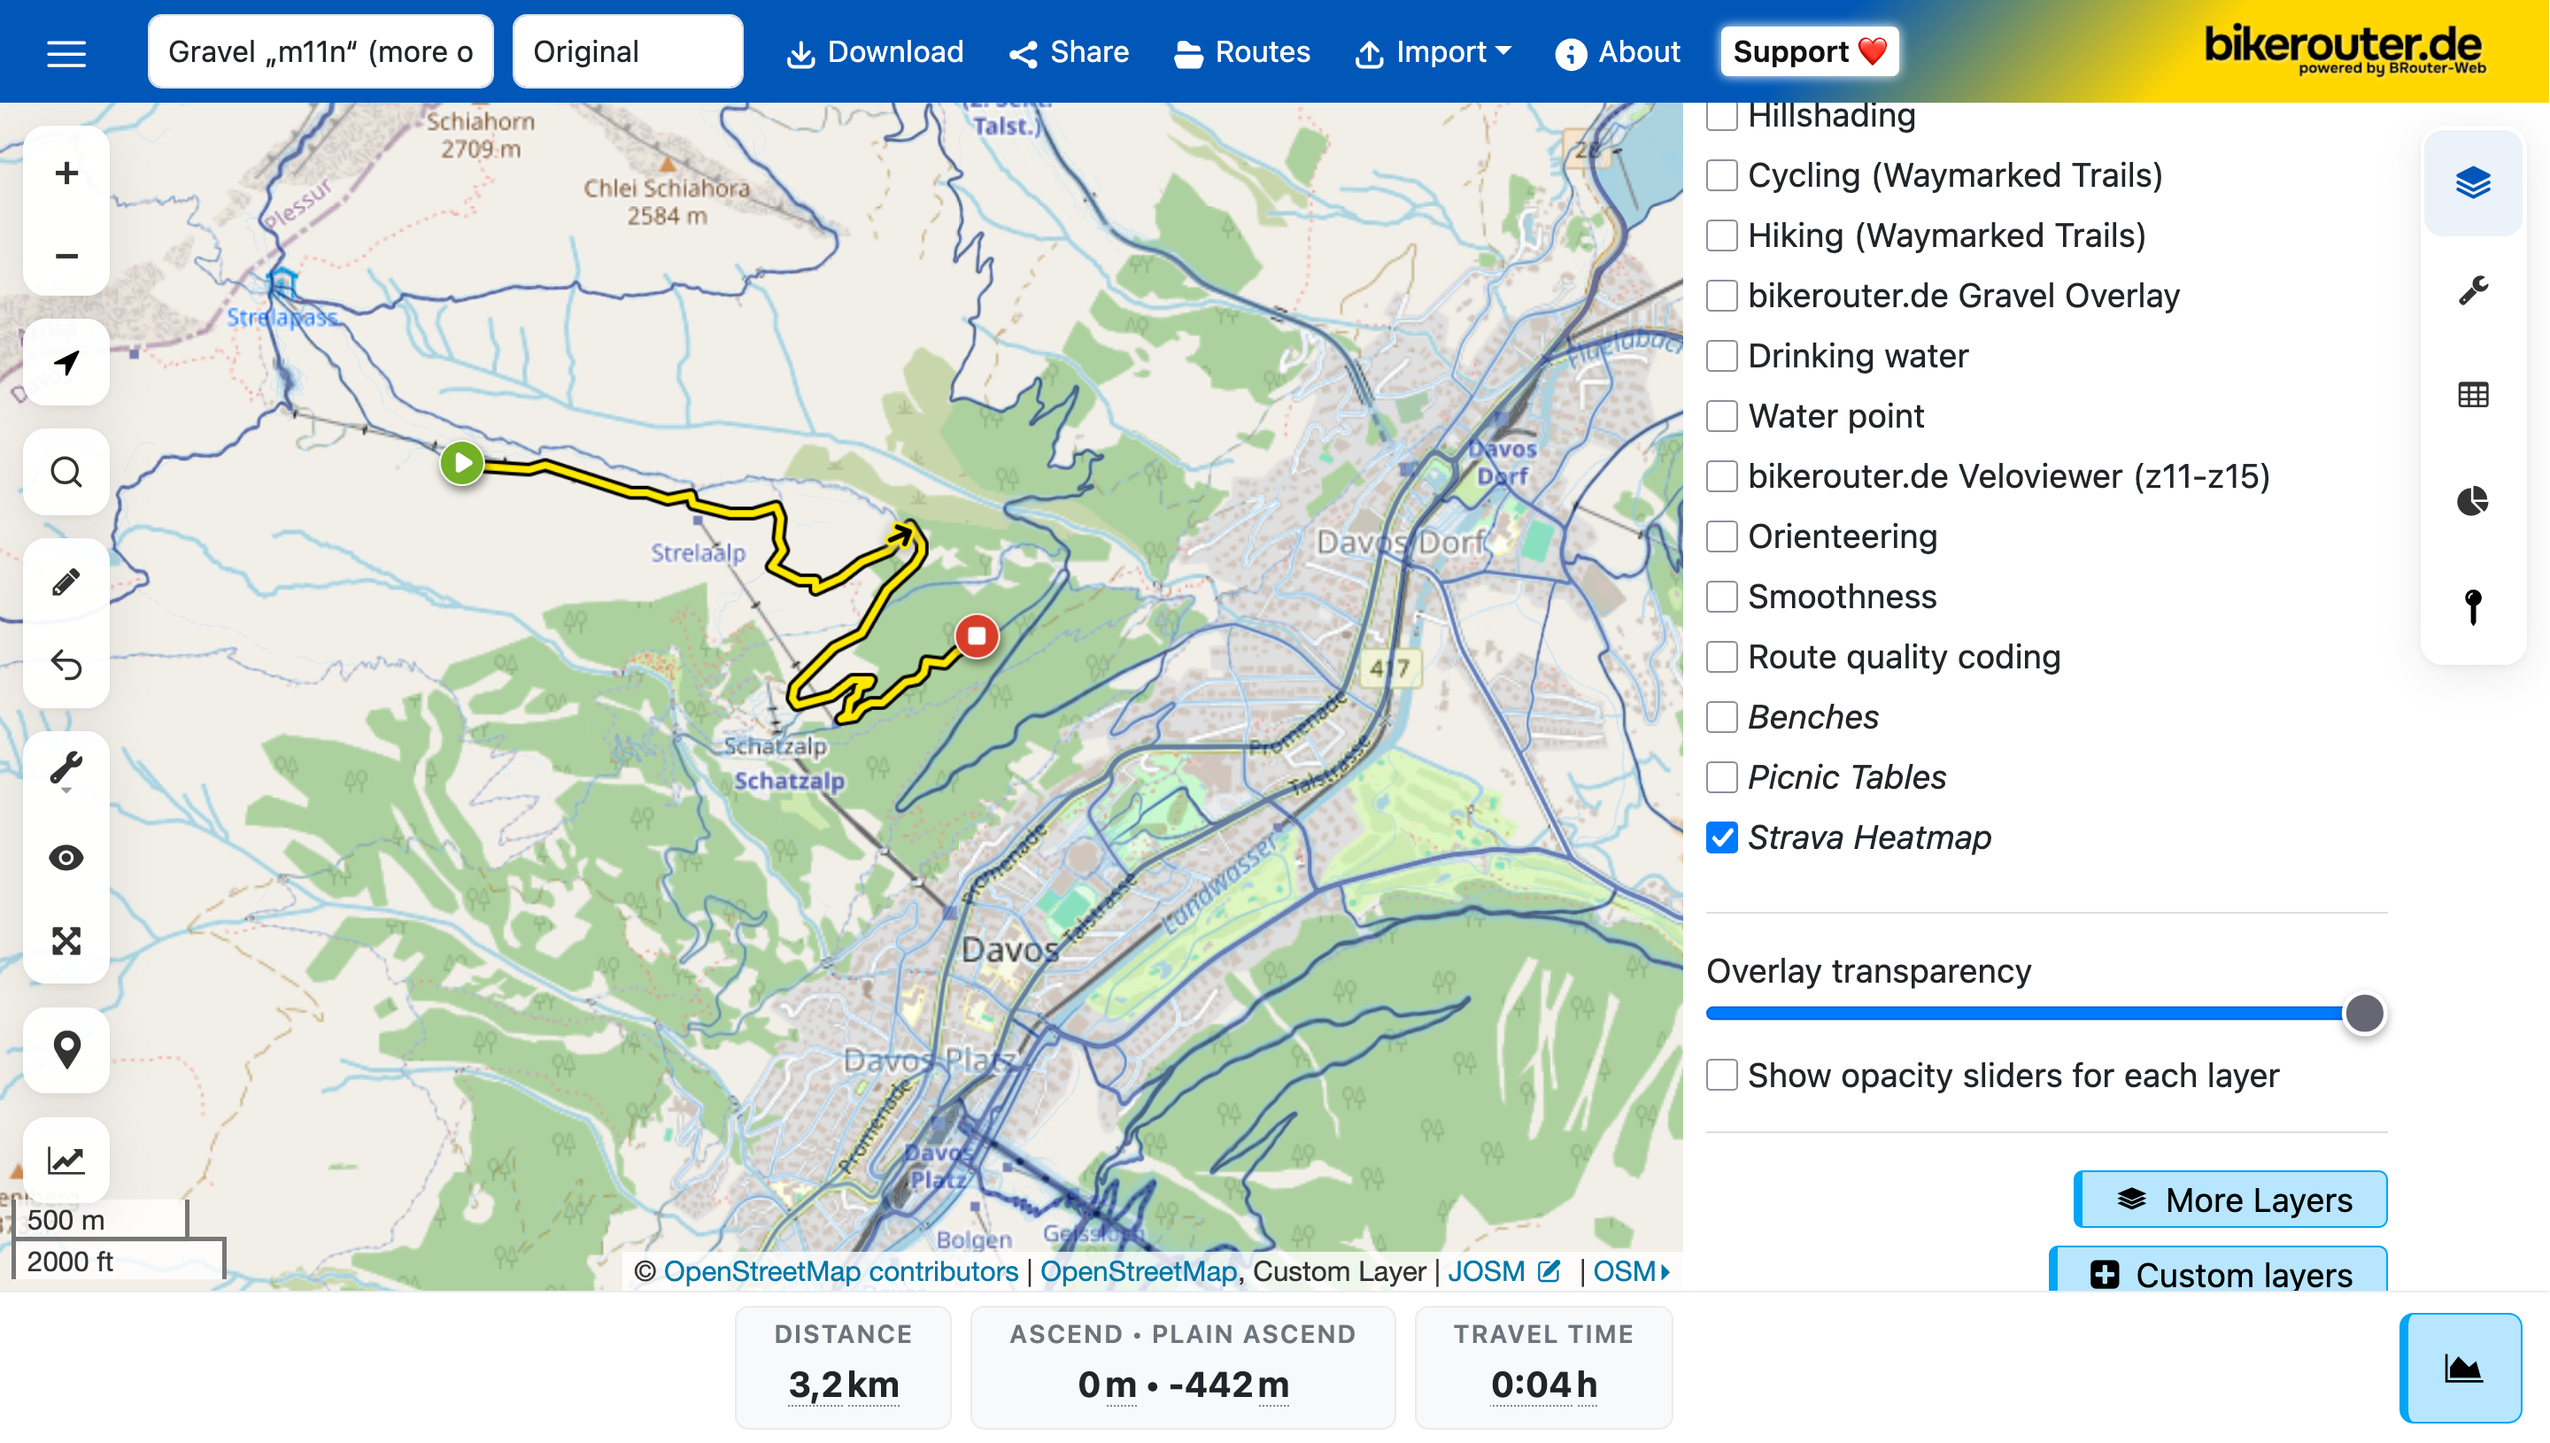
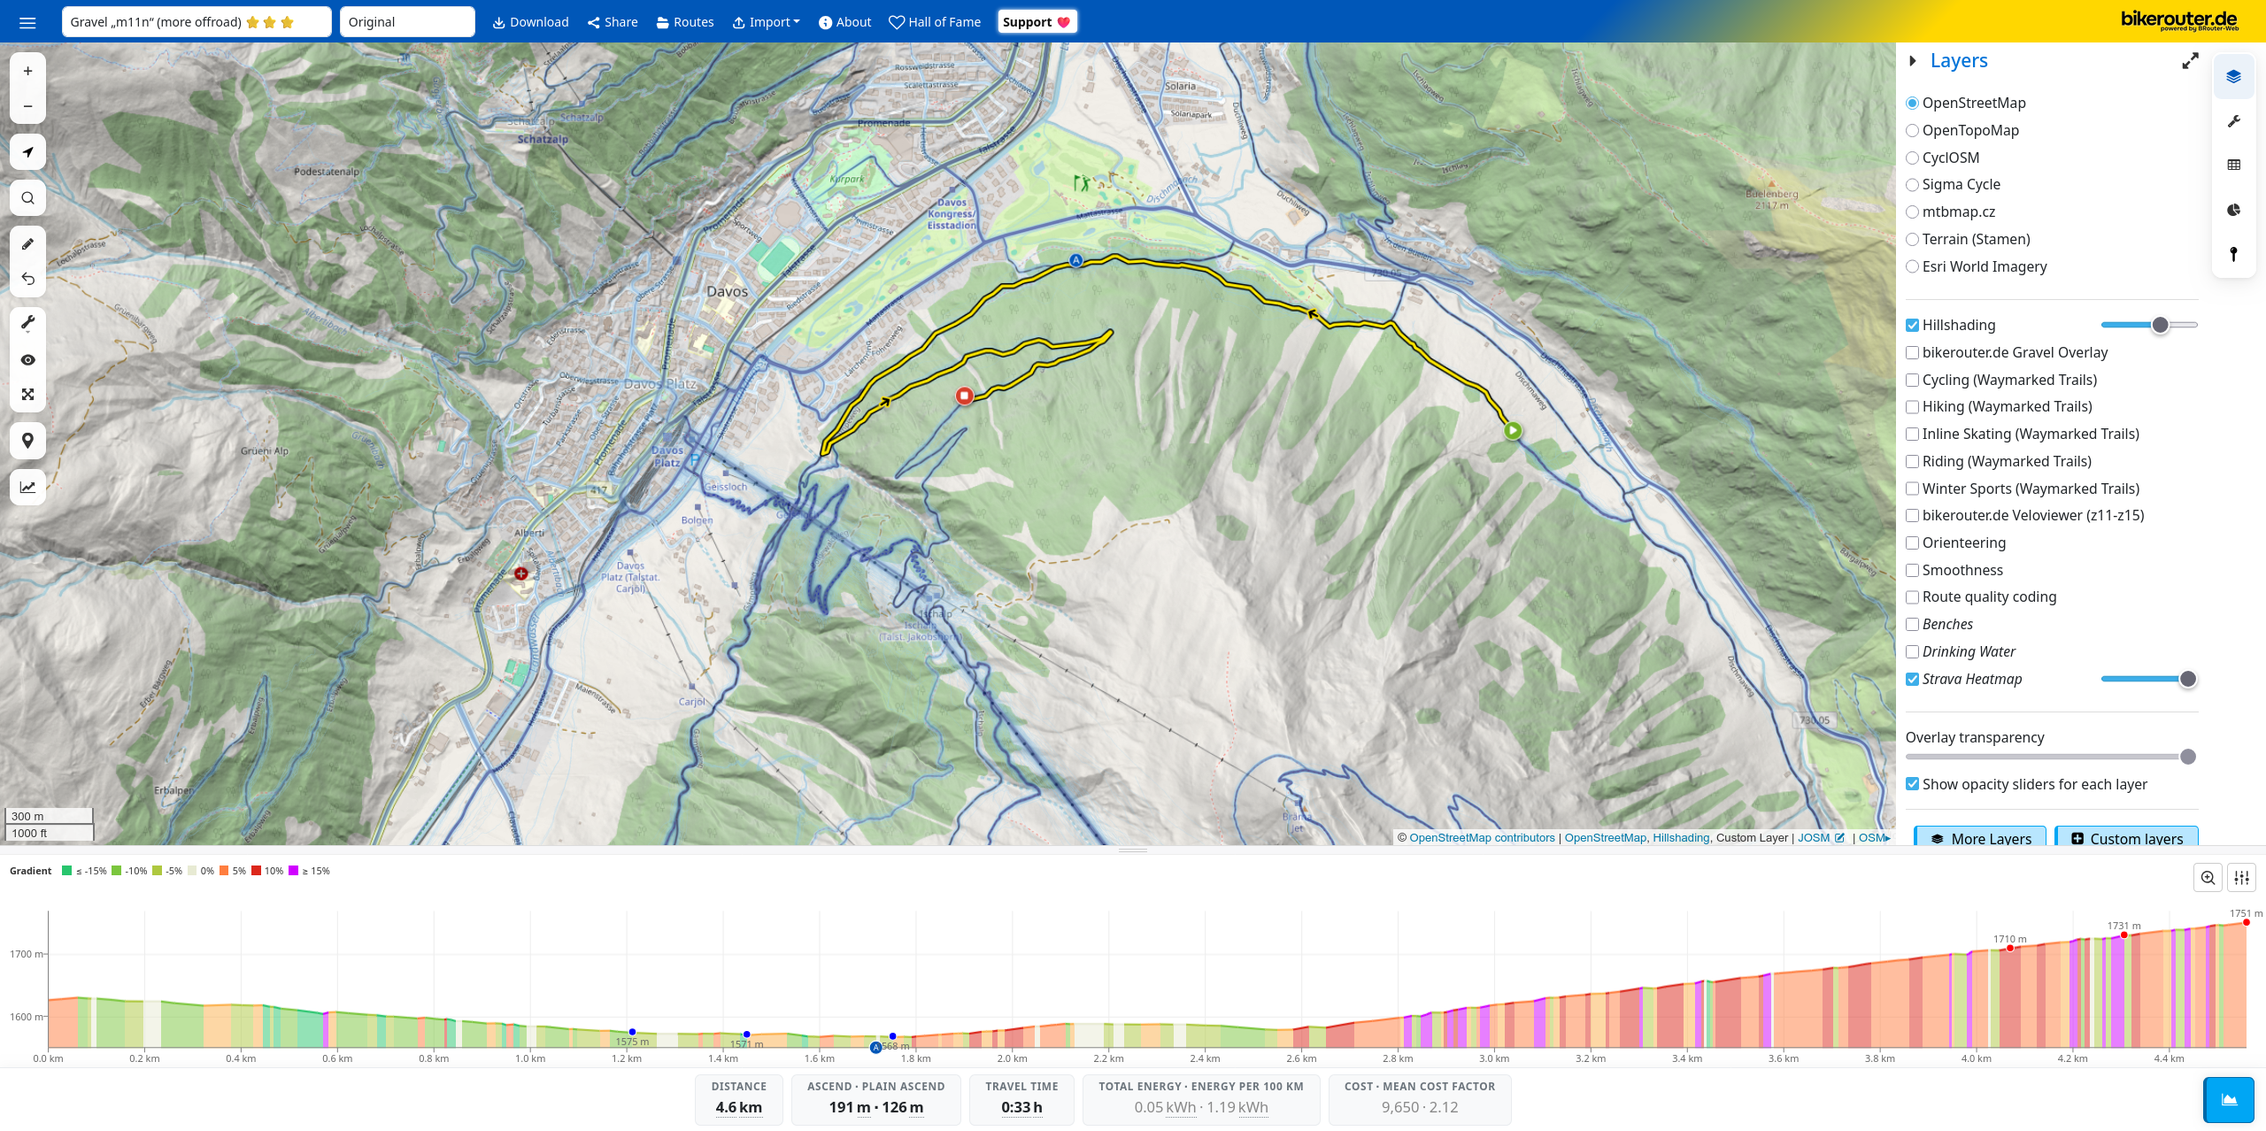
Update screenshot and README title

diff --git a/README.md b/README.md
@@ -1,4 +1,4 @@
-# strava-heatmap-proxy
+# Strava Heatmap Proxy
 
 A utility program that serves a local proxy for the Strava heatmap, making it accessible in other programs like BRouter (e.g., `bikerouter.de` and `brouter.de`), GIS software (e.g., QGIS), and OpenStreetMap editors (e.g., iD).
 
